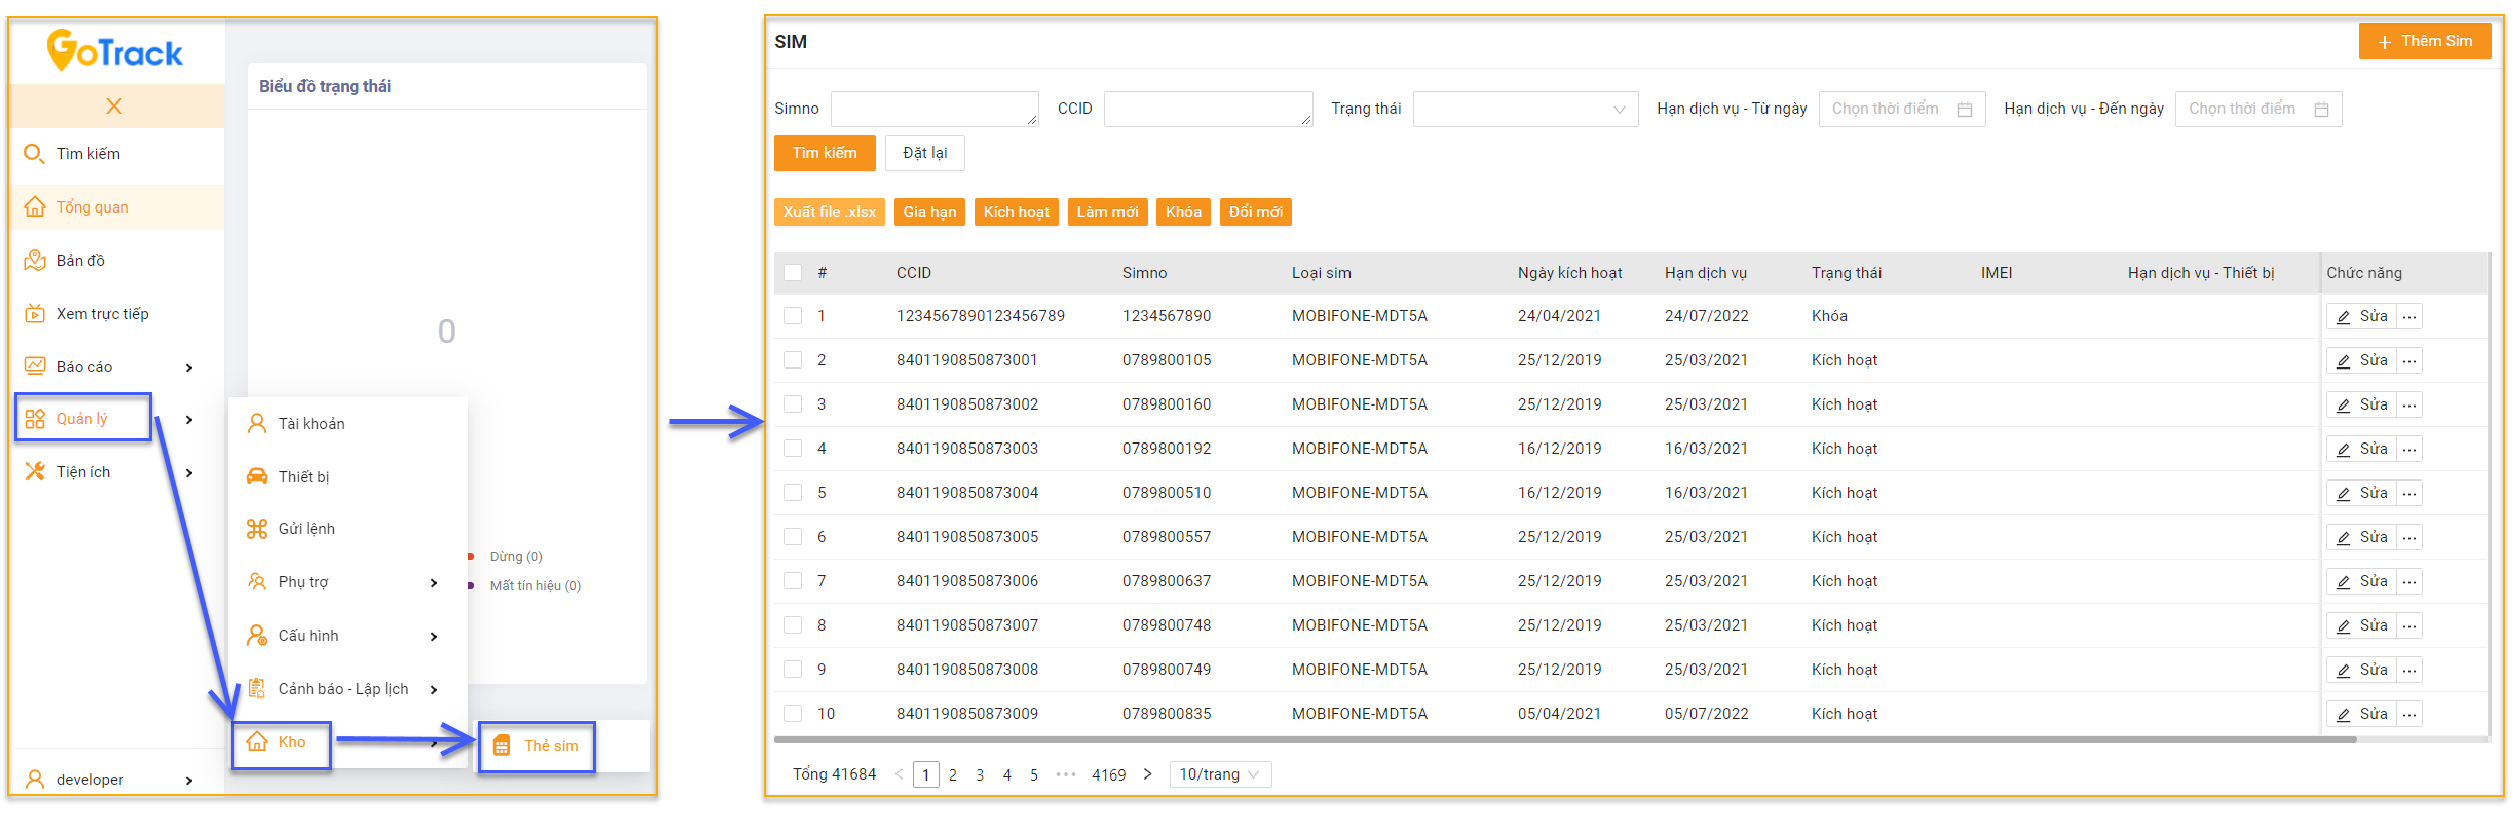
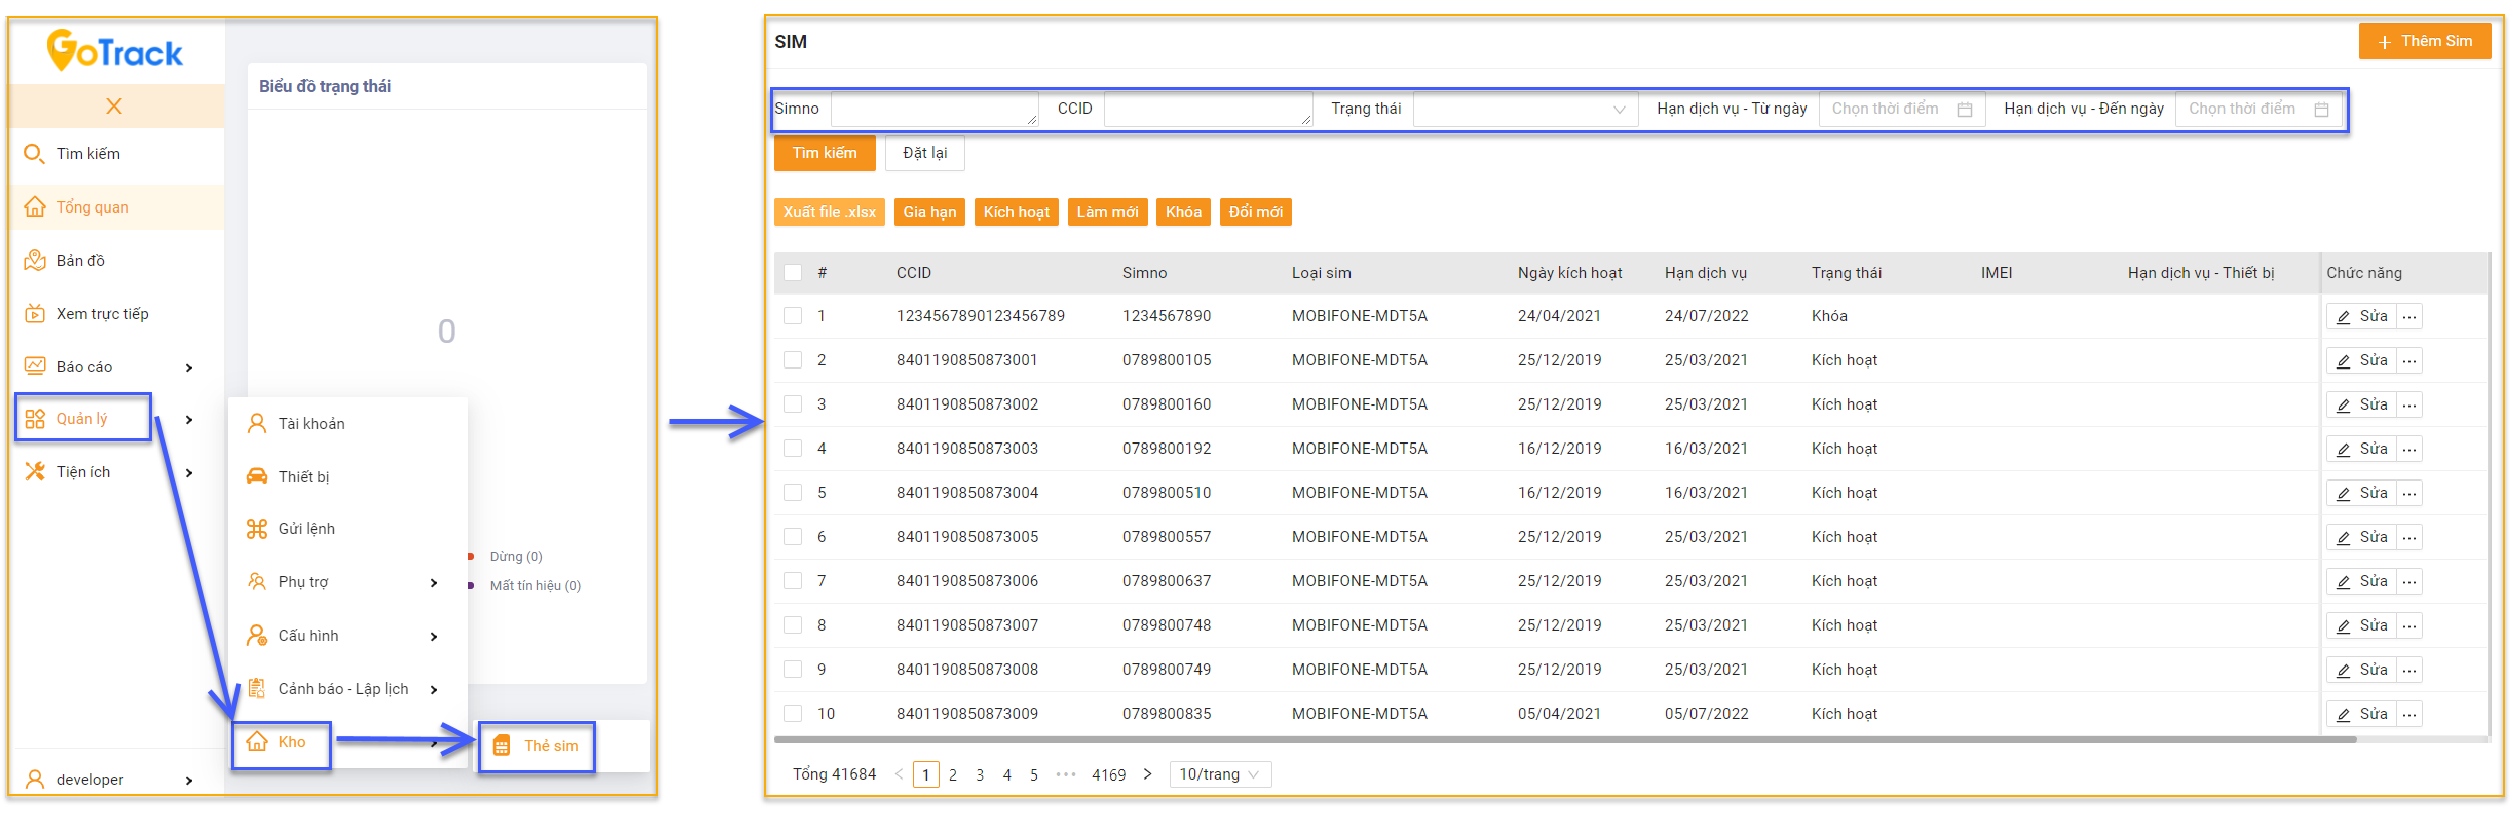
fix sim p3

Changed region(s): [[0.3099, 0.1524, 0.9297, 0.1829], [0.3099, 0.0915, 0.9297, 0.122]]

diff --git a/modules/web-interface/sim/README_vi.md b/modules/web-interface/sim/README_vi.md
@@ -1,13 +1,9 @@
-# Sim
+# Tìm kiếm 
 
 Để tra cứu Sim, bạn vào mục **Quản lý > Kho > Thẻ Sim**.
 Màn hình hiển thị như hình dưới đây : 
 
   <span style="display:block;text-align:left">![Manage device ](/docs/assets/images/web-interface/sim/sim.png)
-
-### Tìm kiếm 
-
-<span style="display:block;text-align:left">![Manage device ](/docs/assets/images/web-interface/sim/search.png)
 
 * Có thế tìm kiếm theo các tiêu chí sau :
     * **Simno** : Số Sim ( số điện thoại), nhập 1 hoặc nhiều ký tự để tìm kiếm.

diff --git a/modules/web-interface/sim/README.md b/modules/web-interface/sim/README.md
@@ -1,13 +1,9 @@
-# Sim
+# Search
 
 To look up your Sim card, go to **Manage > Warehouse > Sim manage**.
 The screen displays as shown below:
 
 <span style="display:block;text-align:left">![Manage device ](/docs/assets/images/web-english/sim/sim.png)
-
-### Search 
-
-<span style="display:block;text-align:left">![Manage device ](/docs/assets/images/web-english/sim/search.png)
 
 * It is possible to search by the following criteria:
      * **Simno** Simnumber (phone number), enter 1 or more characters to search.
